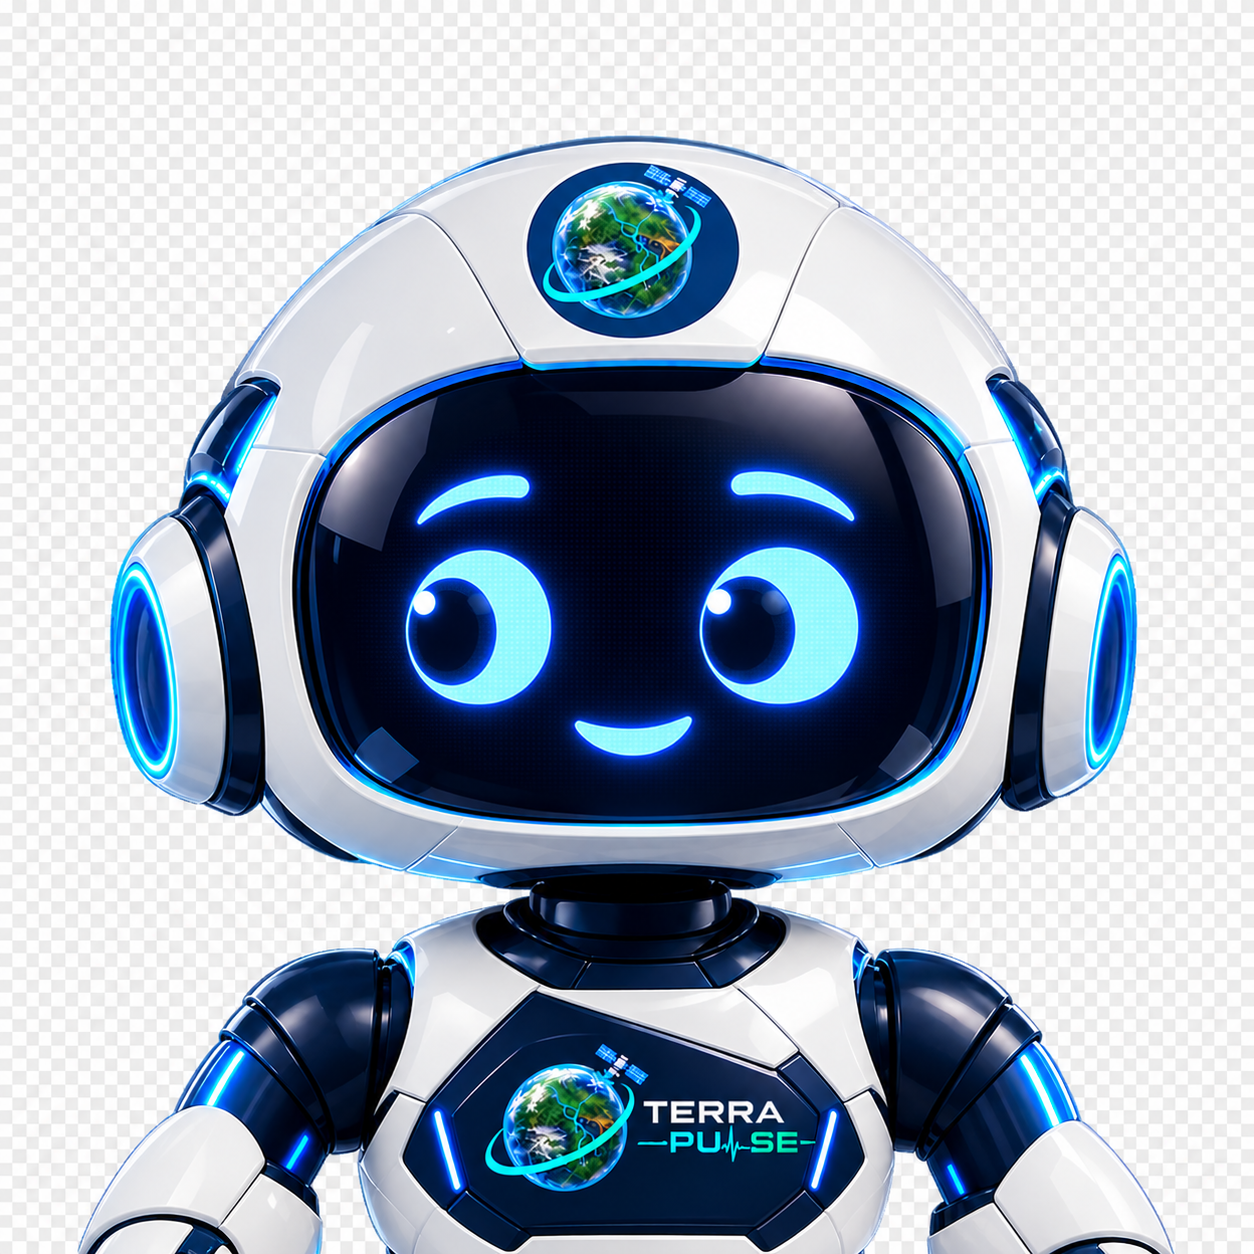
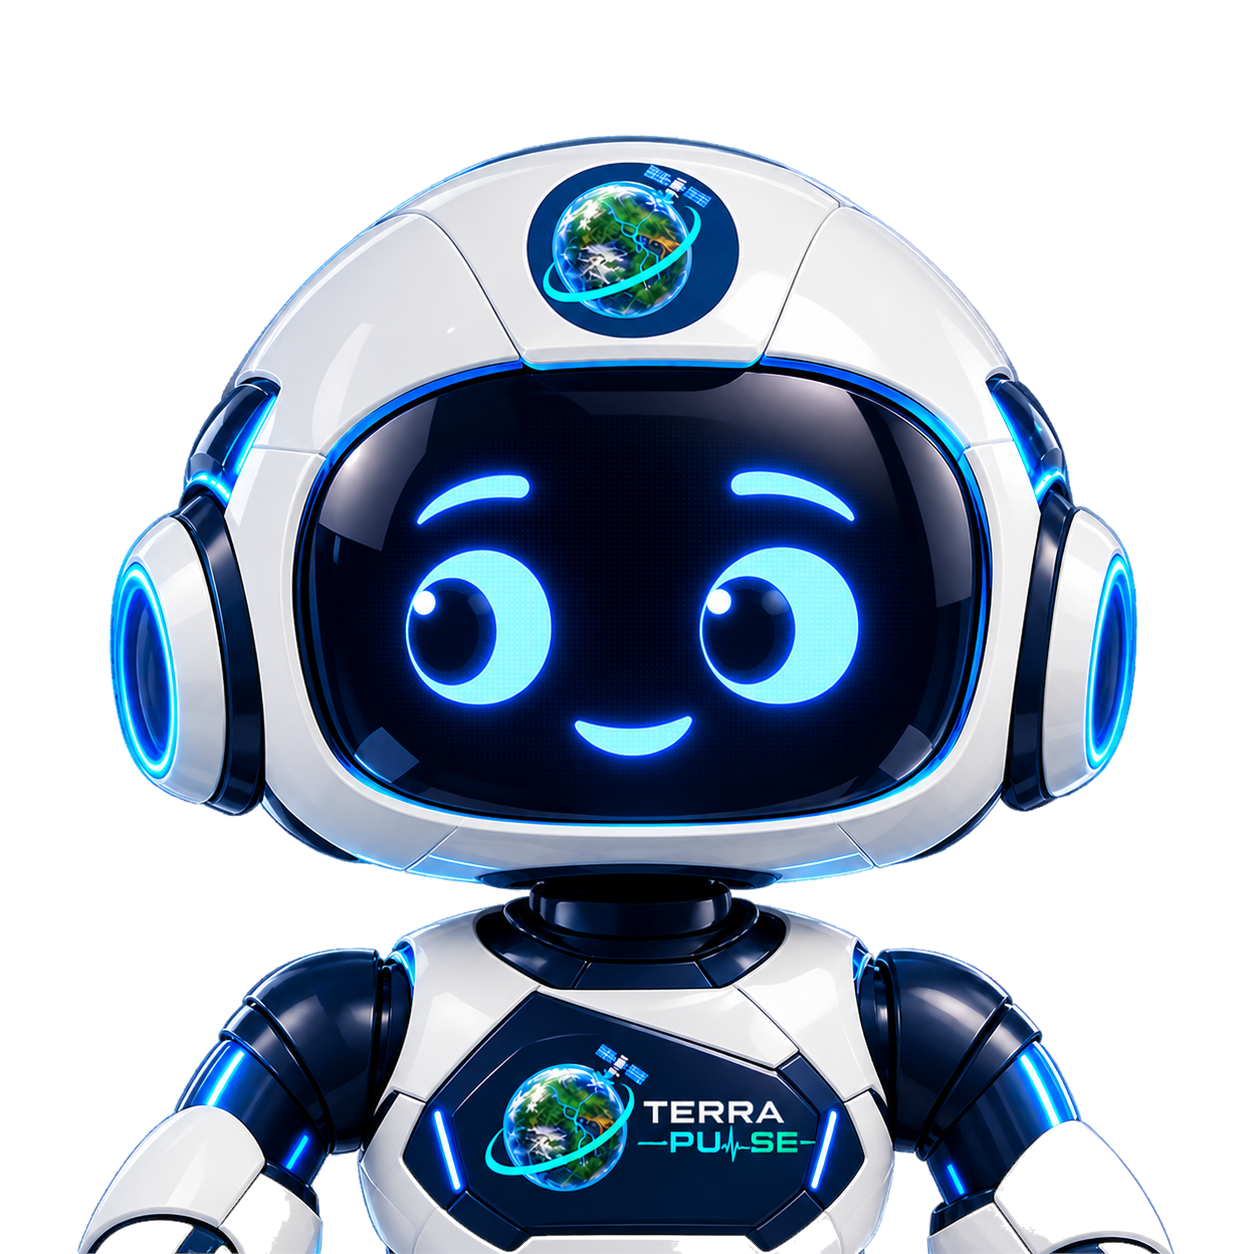
fix: chiku transparent frames without flicker

diff --git a/components/chiku/ChikuGuide.tsx b/components/chiku/ChikuGuide.tsx
@@ -31,6 +31,16 @@ const SPRITE_PATHS: Record<ChikuSprite, string> = {
   happy: '/chiku/chiku-happy.png',
 };
 
+const ALL_SPRITES: ChikuSprite[] = [
+  'idle',
+  'blink',
+  'look-left',
+  'look-right',
+  'talk-1',
+  'talk-2',
+  'happy',
+];
+
 // Safe client-mount detection satisfying React 19 hydration rules without setState in effect
 const emptySubscribe = () => () => {};
 function useIsClientMounted(): boolean {
@@ -367,16 +377,27 @@ export function ChikuGuide({ contextData, className = '' }: ChikuGuideProps) {
 
       {/* Main body: Character avatar + Text bubble */}
       <div className="flex items-start gap-2.5">
-        <div className="relative w-12 h-12 shrink-0 border border-hairline rounded-[2px] bg-surface-2 overflow-hidden flex items-center justify-center">
-          <Image
-            src={SPRITE_PATHS[currentSprite] || SPRITE_PATHS.idle}
-            alt="Chiku the radar assistant"
-            width={48}
-            height={48}
-            className="object-contain"
-            priority
-            unoptimized
-          />
+        <div className="relative w-12 h-12 shrink-0 bg-transparent overflow-hidden">
+          {ALL_SPRITES.map((sprite) => {
+            const isVisible = prefersReducedMotion
+              ? sprite === 'idle'
+              : (sprite === currentSprite || (!ALL_SPRITES.includes(currentSprite) && sprite === 'idle'));
+            return (
+              <Image
+                key={sprite}
+                src={SPRITE_PATHS[sprite]}
+                alt={isVisible ? 'Chiku, the Terra Pulse guide' : ''}
+                aria-hidden={!isVisible}
+                width={48}
+                height={48}
+                className={`absolute inset-0 w-12 h-12 object-contain bg-transparent transition-none pointer-events-none ${
+                  isVisible ? 'opacity-100 visible' : 'opacity-0 invisible'
+                }`}
+                priority
+                unoptimized
+              />
+            );
+          })}
         </div>
 
         {/* Text bubble: Marked aria-hidden so screen readers rely on Step A live announcer instead of hearing double announcements */}
